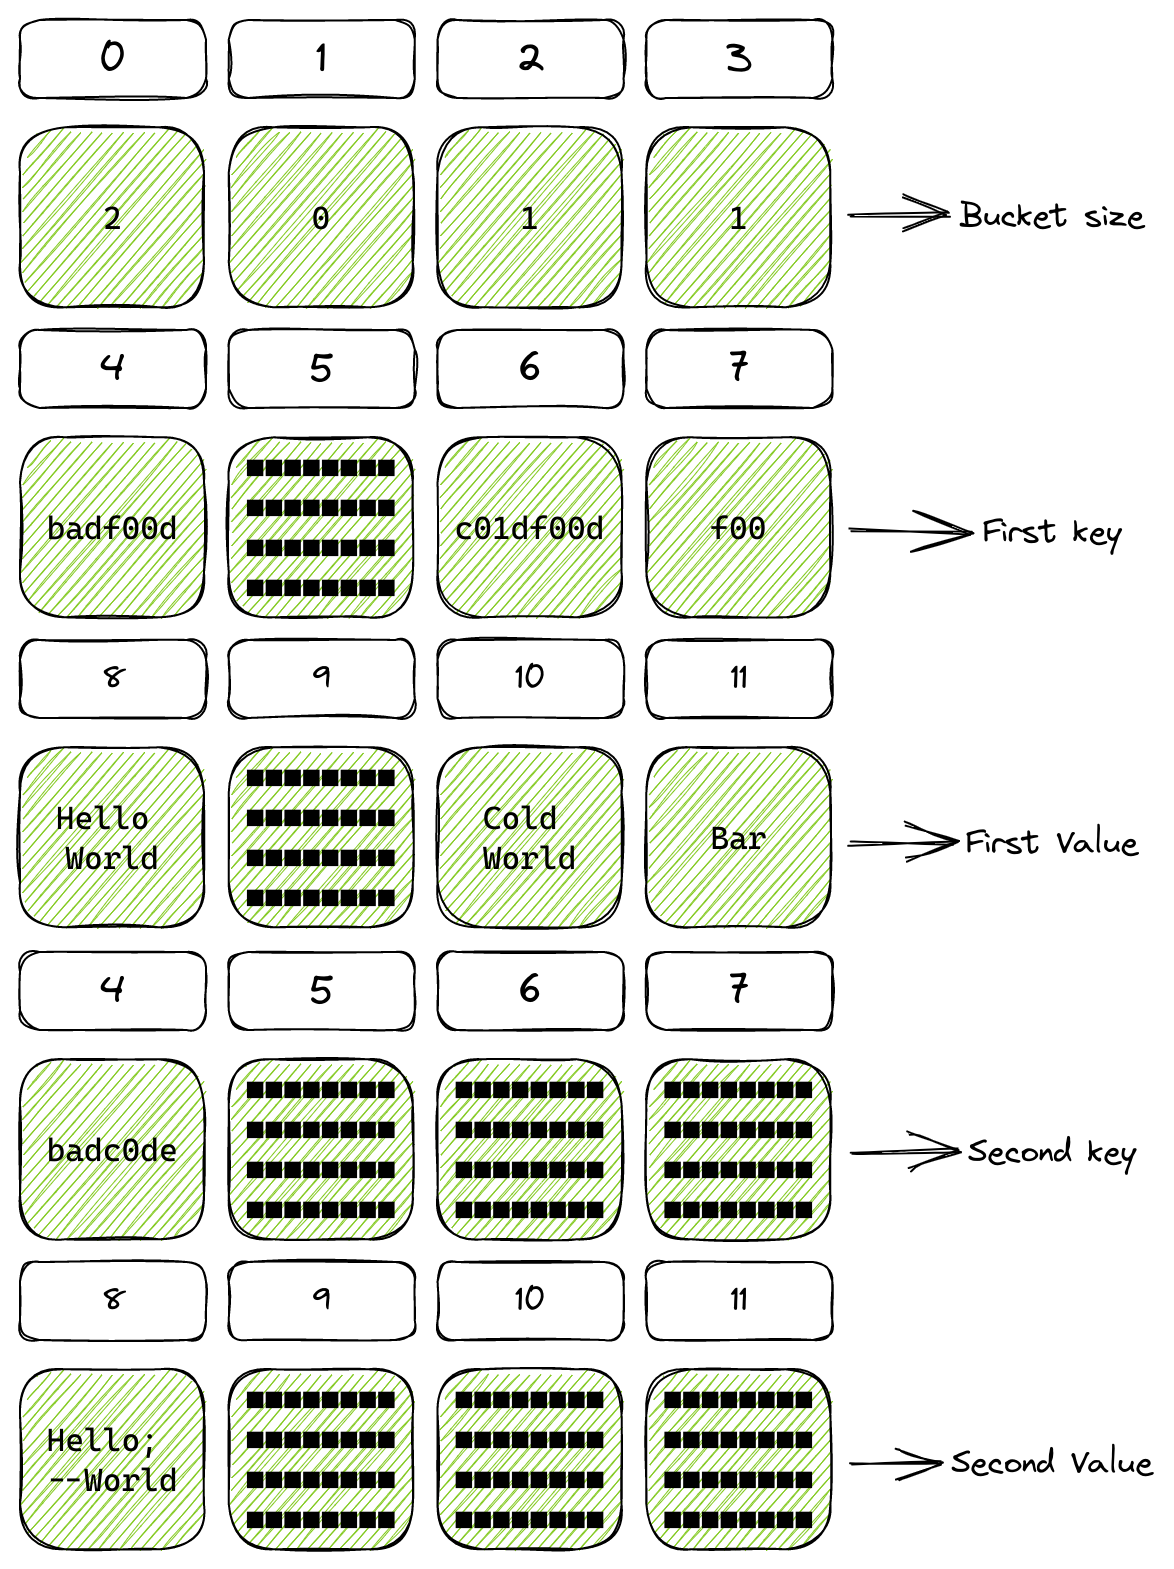
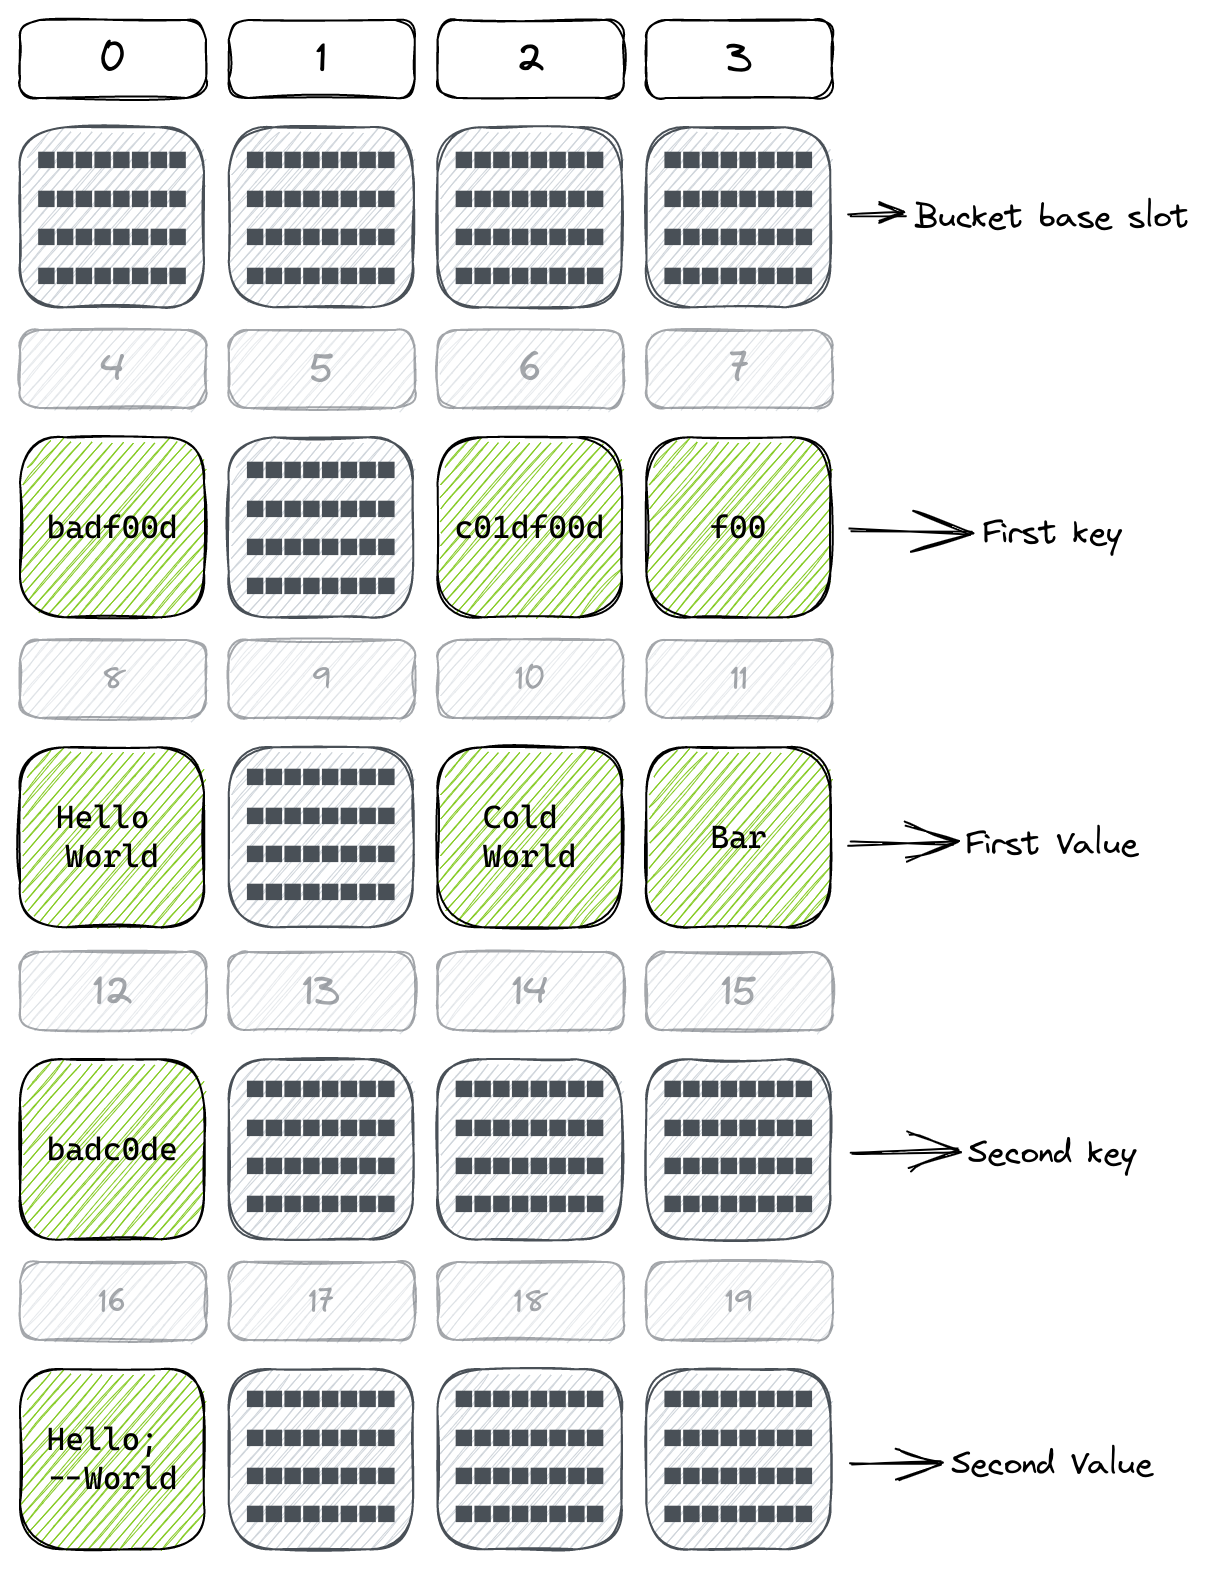
Reorder readme and update pivoted table diagram

diff --git a/README.md b/README.md
@@ -23,32 +23,6 @@ to review the code. If you understand what "storage slot collision" means and
 would like to review the code, please contact me directly or by opening an
 issue.
 
-## When should I use a HashMap?
-This `HashMap` implementation is storage-optimized. This means it is much
-cheaper to write key/value pairs than with `EnumerableMap`. But this comes with
-a trade-off — it is orders of magnitude more expensive to iterate.
-
-Therefore, prefer a `HashMap` over `EnumerableMap` if you:
-1. Will mostly be writing keys, not reading
-1. Will be mostly appending values, with few deletions
-1. Don't need to iterate over it inside non-view functions
-
-## Why do we need a true HashMap?
-The `mapping()` data-structure in Solidity is very interesting. It manages to be
-very gas-efficient at O(1) while taking up 1 slot per key/value pair. This is
-highly efficient, but has a serious drawback: 
-Since the `mapping()` storage layout relies on hashing of keys, it is
-impossible to enumerate mappings. You cannot iterate over them or infer what
-keys they hold. Despite its name, it doesn't provide the same API as you'd
-expect of a `Map` object in other languages.
-
-This does not only affect smart-contract authors, but also off-chain data mining
-services. The `mapping()` type creates an untraceable storage trie that makes it
-much harder to index.
-
-HashMap makes development more natural while allowing off-chain tools to easily
-index your smart-contract data.
-
 ## Installation
 Depending on what toolchain you are using, you will require different
 installation methods.
@@ -64,6 +38,78 @@ If you are using Hardhat, install using NPM:
 ```console
 $ npm i -D solidity-hashmap
 ```
+
+## Why use a HashMap?
+This `HashMap` implementation is storage-optimized. This means it is much
+cheaper to write key/value pairs than with `EnumerableMap`. But this comes with
+a trade-off — it is orders of magnitude more expensive to iterate.
+
+Therefore, prefer a `HashMap` over `EnumerableMap` if you:
+1. Will mostly be writing keys, not reading
+1. Will be mostly appending values, with few deletions
+1. Don't need to iterate over it inside non-view functions
+
+### Comparison to alternatives
+Two alternatives exist for HashMap:
+1. Solidity's builtin `mapping()` data structure
+1. OpenZeppelin [`EnumerableMap` implementation](https://github.com/OpenZeppelin/openzeppelin-contracts/blob/master/contracts/utils/structs/EnumerableMap.sol)
+
+HashMap aims to find a balance between gas/storage efficiency, and developer
+experience. While Solidity's `mapping()` is very gas & storage efficient, it is
+not developer friendly at all. And while `EnumerableMap` is more developer
+friendly, it is not storage-efficient.
+
+HashMap finds a balance between storage, gas, and developer experience. HashMap
+is both efficient in gas & storage, while providing a simple, familiar API.
+
+#### Gas costs comparison
+| Test                           | HashMap       | EnumerableMap | Mapping       |
+| ------------------------------ | ------------- | ------------- | ------------- |
+| Write a single key             | 45,216        | 89,097        | 22,226        |
+| Write 10k keys to map          | 460,930,127   | 674,363,767   | 225,201,867   |
+| Write 100k keys to map         | 5,255,915,589 | 6,813,751,712 | 2,322,329,812 |
+| Find a key in a 10k map        | 3,129         | 843           | 568           |
+| Find a key in a single key map | 1,110         | 389           | 117           |
+| Iterate over 10k keys          | 367,285,535   | 9,534,692     | 5,104,497     |
+| Remove 10k keys                | 121,899,581   | 23,254,497    | 6,704,497     |
+
+We can see that compared to `EnumerableMap`, `HashMap` has a distinct trade-off:
+it is much cheaper to write, but considerably more expensive to iterate.
+
+HashMap is still WIP. There are some optimizations (such as using a
+Balanced Tree instead of LinkedLists) that could reduce iteration gas costs
+further.
+
+### Motivation
+The `mapping()` data-structure in Solidity is very interesting. It manages to be
+very gas-efficient at O(1) while taking up 1 slot per key/value pair. This is
+highly efficient, but has a serious drawback: 
+Since the `mapping()` storage layout relies on hashing of keys, it is
+impossible to enumerate mappings. You cannot iterate over them or infer what
+keys they hold. Despite its name, it doesn't provide the same API as you'd
+expect of a `Map` object in other languages.
+
+This does not only affect smart-contract authors, but also off-chain indexing
+services. The `mapping()` type creates an untraceable storage trie that makes it
+much harder to index.
+
+HashMap makes development more natural while allowing off-chain tools to easily
+index your smart-contract data.
+
+### Caveats
+Currently this implementation has some notable caveats. Some of these might get
+"fixed" and some will not, either due to technical or design limitations.
+- Keys and values are `bytes32`. To set/get different values, they must be cast
+appropriately
+- Some of the methods (e.g. `.entries()`, `.values()`) are very gas-intensive
+and are only appropriate in `view` functions called via RPC, where gas is not an
+issue
+- Keys cannot be an empty `bytes32`
+- Only value-types are currently supported: numbers, addresses and strings
+shorter than 32 bytes
+- `memory` HashMaps are currently not supported
+- A HashMap is almost O(1), but not quite. More keys means gas-efficiency might
+deteriorate but it will never reach O(n)
 
 ## Usage
 Usage is straightforward — import the library and use the `HashMap` type for your
@@ -183,25 +229,17 @@ function increment () private returns (uint count) {
 }
 ```
 
-So what does the HashMap storage layout looks like?
-- The "base slot" contains the HashMap size (how many key/value pairs are
-  stored in total)
-- For every "bucket", we use 1 slot to store the size of the bucket (how many
-  pairs exist in this specific bucket)
-- From there on, key/value pairs are stored in slots that are separated by the
-  bucket count of our HashMap 
-
-To visualize this, let's say we have a Hash Map that uses 4 buckets:
+To visualize the storage layout, let's say we have a Hash Map that uses 4 buckets:
 <img alt="A Hash Table with 4 rows and a single key/value pair in each row" src="docs/4buckets.png" style="max-width:min(400px, 100%); display:block;" />
 Here we see that we have 4 rows and in 3 of these rows we have stored values:
 - Row #0 contains:
-    - 0xbadf00d: "Hello World"
-    - 0xbadc0de: "Hello; --World"
+    - `0xbadf00d`: "Hello World"
+    - `0xbadc0de`: "Hello; --World"
 - Row #1 is empty
 - Row #2 contains:
-    - 0xc01df00d: "Cold World"
+    - `0xc01df00d`: "Cold World"
 - Row #3 contains:
-    - 0xf00: "Bar"
+    - `0xf00`: "Bar"
 
 The bucket for each value is not arbitrary. Remember, to determine the bucket of
 a key/value pair, we hash the key and modulo it by 4 (our Hash Table size).
@@ -210,58 +248,12 @@ Next step in visualizing this, is to break the storage slot space into rows,
 each row the length of our Hash Table size (in this case, 4):
 <img alt="EVM storage space, arranged as a table with 4 slots in each row" src="docs/4slotsspace.png" style="max-width:min(400px, 100%); display:block;" />
 
-Now, imaging a *pivoted* Hash Table, where each column in the storage slot space
+Now, imagine a *pivoted* Hash Table, where each column in the storage slot space
 is a "bucket", while the key/value pairs are stored on subsequent rows:
 <img alt="Depiction of our HashMap stored in the EVM storage slot space" src="docs/hashmapinstorage.png" style="max-width:min(400px, 100%); display:block;" />
 
 This is the gist of the storage layout of a HashMap. This does not depict
 everything precisely, but it should help visualize the storage layout.
-
-## Caveats
-Currently this implementation has some notable caveats. Some of these might get
-"fixed" and some will not, either due to technical or design limitations.
-- Keys and values are `bytes32`. To set/get different values, they must be cast
-appropriately
-- Some of the methods (e.g. `.entries()`, `.values()`) are very gas-intensive
-and are only appropriate in `view` functions called via RPC, where gas is not an
-issue
-- Keys cannot be an empty `bytes32`
-- Only value-types are currently supported: numbers, addresses and strings
-shorter than 32 bytes
-- `memory` HashMaps are currently not supported
-- A HashMap is almost O(1), but not quite. More keys means gas-efficiency might
-deteriorate but it will never reach O(n)
-
-## Comparison to alternatives
-Two alternatives exist for HashMap:
-1. Solidity's builtin `mapping()` data structure
-1. OpenZeppelin [`EnumerableMap` implementation](https://github.com/OpenZeppelin/openzeppelin-contracts/blob/master/contracts/utils/structs/EnumerableMap.sol)
-
-HashMap aims to find a balance between gas/storage efficiency, and developer
-experience. While Solidity's `mapping()` is very gas & storage efficient, it is
-not developer friendly at all. And while `EnumerableMap` is more developer
-friendly, it is not storage-efficient.
-
-HashMap finds a balance between storage, gas, and developer experience. HashMap
-is both efficient in gas & storage, while providing a simple, familiar API.
-
-### Gas costs comparison
-| Test                           | HashMap       | EnumerableMap | Mapping       |
-| ------------------------------ | ------------- | ------------- | ------------- |
-| Write a single key             | 45,216        | 89,097        | 22,226        |
-| Write 10k keys to map          | 460,930,127   | 674,363,767   | 225,201,867   |
-| Write 100k keys to map         | 5,255,915,589 | 6,813,751,712 | 2,322,329,812 |
-| Find a key in a 10k map        | 3,129         | 843           | 568           |
-| Find a key in a single key map | 1,110         | 389           | 117           |
-| Iterate over 10k keys          | 367,285,535   | 9,534,692     | 5,104,497     |
-| Remove 10k keys                | 121,899,581   | 23,254,497    | 6,704,497     |
-
-We can see that compared to `EnumerableMap`, `HashMap` has a distinct trade-off:
-it is much cheaper to write and slightly more expensive to read, but
-considerably more expensive to iterate.
-
-In addition, HashMap is still WIP. There are some optimizations (such as using a
-Balanced Tree instead of LinkedLists) that could reduce gas costs even further.
 
 # Contributions
 Contributions are welcome.
